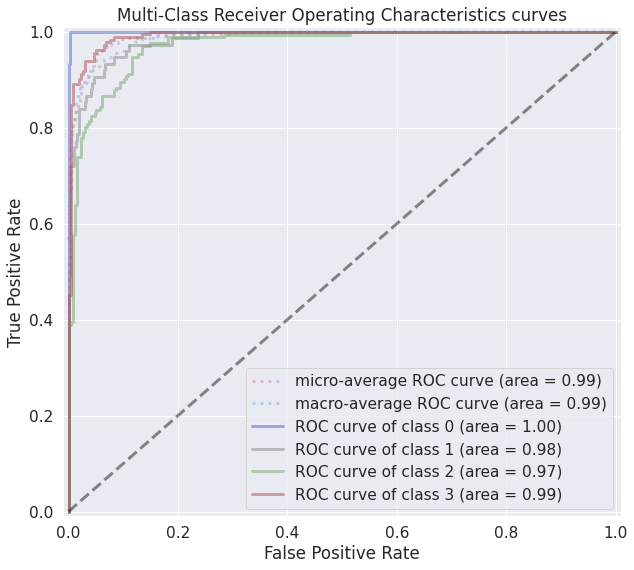
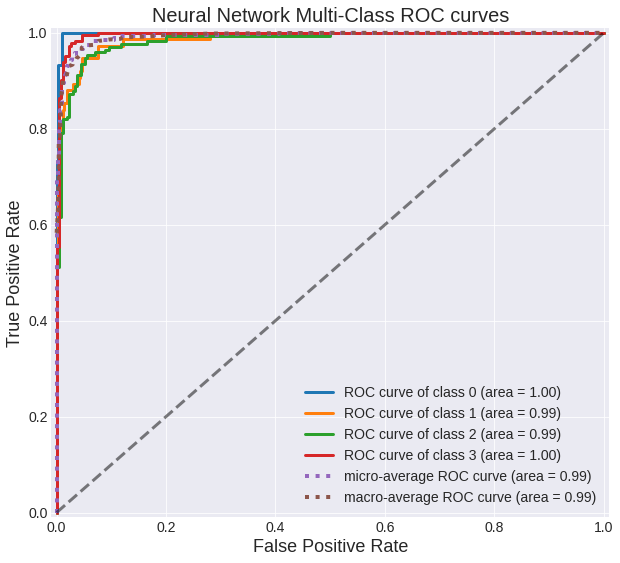
up to uncertainty analysis

diff --git a/templates/chap5.tex b/templates/chap5.tex
@@ -13,7 +13,7 @@
 Supervised learning methods for classification come in a wide variety of shapes and sizes. Rather than settle on one for predicting geothermal gradient, four different methods are applied to the southwestern NM data set. Figure \ref{fig:model_flow} illustrates the high-level modeling flow, where model complexity increases with successive steps. The method descriptions below only briefly delve into important model mechanics and key hyperparameters (i.e., parameters not learned from data) that impact model performance. Other sources can provide a deeper review of machine learning algorithms and their mathematical underpinnings. This investigation should instead be considered an applied case study that uses these algorithms as tools for generating insights on geothermal potential. 
 
 \subsection{Assessing Performance}
-Building an intuition for the differences in predictive ability of different models first requires a clear definition of the scoring metric(s) used to compare those models. The characterization of classifier performance typically begins with a confusion matrix. In its simplest form, the confusion matrix evaluates class predictions as \acrlong{tp} (\acrshort{tp}; predicted 1, actually 1), \acrlong{tn} (\acrshort{tn}; predicted 0, actually 0), \acrlong{fp} (\acrshort{fp}; predicted 1, actually 0), and \acrlong{fn} (\acrshort{fn}; predicted 0, actually 1). For the multi-class problem, the confusion matrix expands to include all correct classification and mis-classification options. Figure \ref{fig:confusion_matrix} illustrates the elements of a 4-class matrix.
+Building an intuition for the differences in predictive ability of different models first requires a clear definition of the scoring metric(s) used to compare those models. The characterization of classifier performance typically begins with a confusion matrix. In its simplest form, the confusion matrix evaluates class predictions as \acrlong{tp} (\acrshort{tp}; predicted 1, actually 1), \acrlong{tn} (\acrshort{tn}; predicted 0, actually 0), \acrlong{fp} (\acrshort{fp}; predicted 1, actually 0), and \acrlong{fn} (\acrshort{fn}; predicted 0, actually 1). For the multi-class problem, the confusion matrix expands to include all correct classification and misclassification options. Figure \ref{fig:confusion_matrix} illustrates the elements of a 4-class matrix.
 
 \begin{figure}[!htp]
 \centering
@@ -152,7 +152,7 @@ One method for selecting the number of features to keep involves an iterative pr
 \caption[Logistic regression confusion matrix]{Confusion matrix for the tuned LR model trained on WDS4.}
 \label{fig:logreg_conf_matrix}
 \end{wrapfigure}
-A final LR model trained on WDS4 was constructed using the tuned C hyperparameter and reduced feature set from RFE. The confusion matrix suggests the model performs well overall (Figure \ref{fig:logreg_conf_matrix}). Correct predictions for all four classes of geothermal gradient (TP) outnumber the mis-classifications for those classes (FP). The model appears to struggle most with differentiating between class 2 and class 3 locations, which separate mid-grade (40-60 $^\circ$C/km) from high-grade gradients (>60 $^\circ$C/km), although there are a large number of mis-classifications (26) of low-grade gradient as high-grade as well.
+A final LR model trained on WDS4 was constructed using the tuned C hyperparameter and reduced feature set from RFE. The confusion matrix suggests shows moderately good model performance (Figure \ref{fig:logreg_conf_matrix}). Correct predictions for all four classes of geothermal gradient (TP) outnumber the misclassifications for those classes (FP). The model appears to struggle most with differentiating between class 2 and class 3 locations, which separate mid-grade (40-60 $^\circ$C/km) from high-grade gradients (>60 $^\circ$C/km), although there are a large number of misclassifications (26) of low-grade gradient as high-grade as well.
 
 Figure \ref{fig:logreg_auc} plots the macro average, micro average, and individual class ROC curves. Class 0 (non-thermal) predictive ability is quite high, pulling the micro-average AUC up to 0.88.  The macro AUC value of 0.85 is more aligned with the performance for other classes, which range from an AUC of 0.79-0.83. The trade-off between Class 2 and Class 3 is apparent in how the curve shapes mirror each other.
 
@@ -160,7 +160,7 @@ Figure \ref{fig:logreg_auc} plots the macro average, micro average, and individu
 \centering
 \includegraphics[width=0.6\textwidth]{templates/images/Figure-LR-AUC.png}
 \singlespacing
-\caption[Logistic regression AUC curves]{ROC AUC curves for the tuned LR model trained on WDS4.}
+\caption[Logistic regression ROC curves]{ROC curves for the tuned LR model trained on WDS4.}
 \label{fig:logreg_auc}
 \end{figure}
 
@@ -283,21 +283,23 @@ Figure \ref{fig:dtree_feat_import} shows the feature importances determined by t
 \end{figure}
 
 \subsubsection{Optimized Model Results}
+
 \begin{figure}[!htp]
 \centering
-\includegraphics[width=0.45\textwidth]{templates/images/Figure-DT-ConfusionMatrix.png}
+\includegraphics[width=0.5\textwidth]{templates/images/Figure-DT-ConfusionMatrix.png}
 \singlespacing
 \caption[Decision tree confusion matrix]{Confusion matrix for tuned DT model trained on WDS4.}
 \label{fig:dtree_conf_matrix}
 \end{figure}
-A final DT model trained on WDS4 was constructed using the tuned parameters and 18-predictor reduced feature set. The confusion matrix (Figure \ref{fig:dtree_conf_matrix}) demonstrates an improvement in model results over the logistic regression method. Low-grade geothermal locations are correctly predicted for almost double the number of sites, and half as many mis-classifications are observed between class 2 (mid-grade) and class 3 (high-grade) geothermal as with the LR model.
+
+A final DT model trained on WDS4 was constructed using the tuned parameters and 18-predictor reduced feature set. The confusion matrix (Figure \ref{fig:dtree_conf_matrix}) demonstrates an improvement in model results over the logistic regression method. Low-grade geothermal locations are correctly predicted for almost double the number of sites, and half as many misclassifications are observed between class 2 (mid-grade) and class 3 (high-grade) geothermal as with the LR model.
 
 Figure \ref{fig:dtree_auc} shows the macro average, micro average, and individual class DT ROC curves. All individual class AUC values exceed 0.90. Class 0 (non-geothermal) continues to demonstrate the highest predictive ability (AUC=0.97), but the performance of class 3 (high-grade) is most responsible for boosting micro-average AUC at higher decision thresholds where the class 0 ROC curve steeply drops in TPR for FPR < 0.1. Class 2 (medium-grade) classification performance lags behind the other classes for the DT classifier.
 
 \begin{figure}[!htp]
 \centering
 \includegraphics[width=0.6\textwidth]{templates/images/Figure-DT_AUC.png}
-\caption[Decision tree AUC curves]{ROC AUC curves for the tuned DT model trained on WDS4.}
+\caption[Decision tree ROC curves]{ROC curves for the tuned DT model trained on WDS4.}
 \label{fig:dtree_auc}
 \end{figure}
 
@@ -439,14 +441,14 @@ Figure \ref{fig:xgb_shap_global} shows the SHAP values calculated from the XGBoo
 \caption[XGBoost confusion matrix]{Confusion matrix for the tuned XGB model trained on WDS4.}
 \label{fig:xgb_conf_matrix}
 \end{wrapfigure}
-A final XGB model parameterized with the tuned values was trained on the sixteen-feature version of WDS4. The resulting confusion matrix (Figure \ref{fig:xgb_conf_matrix}) demonstrates why XGBoost receives best-in-class praise as a predictive method. Test set accuracy for WDS4 exceeds 94\%. The largest number of mis-classifications (12) occur between high-grade (class 3) and medium-grade (class 2) geothermal gradient. And ten additional inaccurate labels involve low-grade (class 1) mistaken as medium-grade or vice-versa. Only two records were off by more than one consecutive class. 
+A final XGB model parameterized with the tuned values was trained on the sixteen-feature version of WDS4. The resulting confusion matrix (Figure \ref{fig:xgb_conf_matrix}) demonstrates why XGBoost receives best-in-class praise as a predictive method. Test set accuracy for WDS4 exceeds 94\%. The largest number of misclassifications (12) occur between high-grade (class 3) and medium-grade (class 2) geothermal gradient. And ten additional inaccurate labels involve low-grade (class 1) mistaken as medium-grade or vice-versa. Only two records were off by more than one consecutive class. 
 
 Figure \ref{fig:xgb_auc} shows the macro average, micro average, and individual class XGB ROC curves. All individual class AUC values are at or above 0.99. This is close to an ideal ROC plot for a classifier.
 
 \begin{figure}[htp]
 \centering
 \includegraphics[width=.5\textwidth]{templates/images/Figure-XGB16-AUC.png}
-\caption[XGBoost AUC curves]{ROC AUC curves for tuned XGB model trained on WDS4.}
+\caption[XGBoost ROC curves]{ROC curves for tuned XGB model trained on WDS4.}
 \label{fig:xgb_auc}
 \end{figure}
 
@@ -460,18 +462,18 @@ Model predictions for the study area are generated by passing the FDS through th
 \end{figure}
 
 \subsection{Neural Networks}
-The concept of \acrlong{ann}s (\acrshort{ann}s or just \acrshort{nn}s) comes from a simplified representation of neuron activity in the brain \citep[p.\ 394]{hastie_elements_2009}. Multiple inputs are fed into a neuron cell from many branches on one end, and given the right combination of those inputs, the cell will fire and propagate a signal to the next connected neuron.
+The original concepts behind \acrlong{ann}s (\acrshort{ann}s or just \acrshort{nn}s) come from simplified models of neuron activity in the brain \citep[p.\ 394]{hastie_elements_2009}. At a high level, multiple inputs are fed into neuron cells from many branches on one end, and given the right combination of those inputs, these cells will fire and propagate a signal to the next group of connected neurons.
 
-In neural networks, cells are represented by logistic units (Figure \ref{fig:nn_schematic}). Each unit acts like a logistic regression operation, where inputs are scaled by weights, and the linear sum of the weighted inputs are passed through an “activation function” to determine if the output is a 0 or a 1. As in logistic regression, the sigmoid function (Equation \ref{eq:sigmoid}) is a common choice, but many other activation functions like the \acrlong{relu} (\acrshort{relu}) are used as well \citep{brownlee_gentle_2019}.
+In neural networks, cells are represented by logistic units (Figure \ref{fig:nn_schematic}). Each unit acts like a logistic regression operation, where inputs are scaled by weights, and the linear sum of the weighted inputs are passed through an “activation function” to determine if the output is a 0 or a 1. As in logistic regression, the sigmoid function (Equation \ref{eq:sigmoid}) commonly appears in network architectures, but many additional activation functions like the \acrlong{relu} (\acrshort{relu}) are frequently used as well \citep{brownlee_gentle_2019}.
 
 \begin{figure}[!htp]
 \centering
 \includegraphics[width=\textwidth]{templates/images/Figure-ANN.png}
-\caption[Neural network schematic]{Schematic of a simplified logistic unit (Left) and a fully-connected artificial neural network (Right) with a single hidden layer made up of logistic units $a_1$ through $a_m$. Bias units (subscript 0) traditionally have a value of 1, but are weighted in linear combinations like other units. Four units in the output layer make this a four-class classifier.}
+\caption[Neural network schematic]{Schematic of a logistic unit (Left) and a fully-connected neural network (Right) with a single hidden layer made up of logistic units $a_1$ through $a_m$. Bias units (subscript 0) traditionally have a value of 1, but are weighted in linear combinations like other units. Four units in the output layer make this a four-class classifier.}
 \label{fig:nn_schematic}
 \end{figure}
 
-Each logistic unit performs the following operation 
+Each logistic unit performs the following operation:
 
 \begin{equation}
 \label{eq:nn_activation}
@@ -510,32 +512,33 @@ As usual, minimizing this loss function is the goal of the NN learning process. 
 \subsubsection{Hyperparameter Tuning}
 \begin{figure}[!htp]
 \centering
-\begin{minipage}{.36\linewidth}
+\begin{minipage}[b][][b]{.35\linewidth}
     \includegraphics[width=\linewidth]{templates/images/Figure-TF_NN_Structure.png}
-    \caption[Neural network structural flow]{Flow chart for the neural network, constructed using TensorFlow \protect\citep{abadi_tensorflow_2016}.}
-    \label{fig:ann_text_structure}
+    \caption[Neural network structural flow]{Structural flow chart for the TensorFlow-based neural network.}
+    \label{fig:nn_text_structure}
 \end{minipage}
 \hfill
-\begin{minipage}{.60\linewidth}
+\begin{minipage}[b][][b]{.61\linewidth}
     \includegraphics[width=\linewidth]{templates/images/Figure-ANN.pdf}
     \caption[Neural network structural schematic]{Schematic diagram of the neural network. Not shown are the dropout operations after each hidden layer.}
-    \label{fig:ann_dot_structure}
+    \label{fig:nn_dot_structure}
 \end{minipage}
 \end{figure}
-This analysis uses a neural network constructed with TensorFlow \citep{abadi_tensorflow_2016}. The network architecture includes hidden layers of the same size as the input layer. This results in a 4-layer structure comprising an input layer of size (1x24), two hidden layers also (1x24), and an output layer of (1x4), assuming all data set features are used (Figures \ref{fig:ann_text_structure}, \ref{fig:ann_dot_structure}). In addition, dropout is included after each of the hidden layers. Dropout helps prevent overfitting by randomly assigning inputs to zero, temporarily severing a defined percentage of node connections during each step of the training process.
+
+This thesis uses a TensorFlow-constructed neural network to test geothermal gradient classification performance for the southwestern NM study area \citep{abadi_tensorflow_2016}. The network design is a 4-layer structure starting with an input layer of size (1x24), followed by two hidden layers sized (1x24), and ending in a four-class output layer (1x4) (Figures \ref{fig:nn_text_structure}, \ref{fig:nn_dot_structure}). Layer sizes assume all 24 features are included in the training. In addition, the network applies dropout after each of the hidden layers. Dropout helps prevent overfitting by randomly assigning inputs to zero, temporarily severing a defined percentage of node connections during each step of the training process.
 
 Since the number of weights being learned scales with the layer count and size of each layer, the choice of network architecture is a tunable parameter. The simplicity of this \acrlong{fcn} (\acrshort{fcn}) design keeps the architecture easily explainable while still enabling the network to learn complex non-linear relationships for geothermal gradient prediction.
 
-Likewise, the choice of activation functions for each layer may also impact the performance of the network. ReLU functions overcome several limitations observed with other activation choices like the sigmoid function, e.g., limited sensitivity and vanishing gradients, making ReLU the current preferred default choice \citep{brownlee_gentle_2019}. Both hidden layers in the network described here apply ReLU activation functions.
+Likewise, the choice of activation functions for each layer may also impact the performance of the network. ReLU functions overcome several limitations seen with more traditional activation choices like the sigmoid function, e.g., limited sensitivity and vanishing gradients, making ReLU the present-day default standard for neural networks \citep{brownlee_gentle_2019}. Both hidden layers in the network described here apply ReLU activation functions.
 
-The Adam optimization method was chosen for training the network due to its computational efficiency and present-day status as the recommended general-purpose optimizer \citep{brownlee_gentle_2017}. A description of Adam is beyond the scope of this thesis, but more information is available in the literature \citep{kingma_adam_2017}.
+The Adam optimization method was chosen for training the network due to its computational efficiency and current status as the recommended general-purpose optimizer \citep{brownlee_gentle_2017}. A description of Adam is beyond the scope of this thesis, but more information is widely available elsewhere \citep[e.g.,\ ][]{kingma_adam_2017}.
 
-The training process updates the network weights using gradients calculated from the training data in each training epoch \citep[p.\ 397]{hastie_elements_2009}. Successive epochs train the NN to match the training data even more, so evaluating loss, AUC, or other metrics on both the training and validation sets is important for tuning the number of epochs to avoid overfitting. Training can also proceed with mini-batches, that is, small subsets of the training set, rather than the whole set at once. This method makes the training results noisier, but generally speeds up learning while adding a regularization effect to changes in the weights \citep{brownlee_how_2019}.  
+The training process updates network weights using gradients calculated from the entire training data in each training epoch \citep[p.\ 397]{hastie_elements_2009}. Successive epochs adjust the NN to match the training data even more, so evaluating loss, AUC, or other metrics on both the training and validation sets is important for identifying the best number of epochs to avoid overfitting. Training can also proceed with mini-batches, that is, small subsets of the training set, rather than the whole set at once. This method makes the training results noisier, but generally speeds up learning while adding a regularization effect to changes in the weights \citep{brownlee_how_2019}.  
 
 Parameter tuning therefore focuses on five hyperparameters:
 \begin{itemize}[itemsep=2pt]
-    \item \textbf{Learning rate}: scales the size of the updates to weights during each step of the training process. The Adam optimizer adjusts this rate during training, so the value here defines an initial learning rate. Initially set to 0.001.
-    \item \textbf{Lambda}: the L2 weight regularization term, i.e., the $\lambda$ in equation \ref{eq:nn_cost_function}. Initially set to $1\times10^{-4}$.
+    \item \textbf{Learning rate}: scales the size of the updates to weights during each step of the training process. The Adam optimizer adjusts this rate during training, so the value here defines a starting learning rate. Initially set to 0.001.
+    \item \textbf{Lambda ($\lambda$)}: the L2 weight regularization term, i.e., the $\lambda$ in equation \ref{eq:nn_cost_function}. Initially set to $1\times10^{-4}$.
     \item \textbf{Batch size}: the number of training samples included in each mini-batch when calculating training gradients for updating the network weights. Initially set to number of samples/10.
     \item \textbf{Dropout rate}: the fraction of network connections zeroed-out during each step of the training process. Initially set to 0.2.
     \item \textbf{Number of epochs}: the number of training repetitions when fitting the model to the data. Initially set to 100.
@@ -544,13 +547,14 @@ Parameter tuning therefore focuses on five hyperparameters:
 \begin{figure}[htp]
 \centering
 \includegraphics[width=\textwidth]{templates/images/Figure-NN_Hyperparameters.png}
-\caption[Neural network hyperparameter tuning]{Neural network hyperparameter tuning results for A. learning rate, B. lambda ($\lambda$), C. batch size, D. drop rate, using WDS4. The orange lines track the AUC after 100 training epochs, averaged over 10-folds of stratified cross-validation for each parameter value. The blue lines show average loss. Red dashed lines indicate values selected for the final model.}
+\caption[Neural network hyperparameter tuning]{NN hyperparameter tuning results for A. learning rate, B. lambda ($\lambda$), C. batch size, D. and drop rate, using WDS4. The orange lines track AUC after 100 training epochs, averaged over 10-folds of stratified cross-validation for each parameter value. The blue lines show average loss after 100 epochs. Red dashed lines mark the selected values for the final model.}
 \label{fig:nn_tuning_plots}
 \end{figure}
 
-The stratified k-fold cross-validation strategy described in Section \ref{ch5:strat_kfold_cv} was used for tuning the neural network hyperparameters. Training continued for 100 epochs, and since TensorFlow tracks metric values for both the training and validation sets at each epoch, the two sets were kept separate during the 10-fold CV process. In the figures and discussion that follow, results are described for WDS4. Full results for all three data sets are provided in Table \ref{tab:nn_tuning}. 
+The stratified k-fold cross-validation strategy described in Section \ref{ch5:strat_kfold_cv} was used for tuning NN hyperparameters. Training continued for 100 epochs, and since TensorFlow models easily track metric values for both the training and validation sets at each epoch, the two sets were kept separate during the 10-fold CV process. In the figures and discussion that follow, results are described for WDS4. Full results for all three data sets are provided in Table \ref{tab:nn_tuning}. 
 
-\begin{wraptable}{R}{0.5\linewidth}
+%\begin{wraptable}{R}{0.50\linewidth}
+\begin{table}[htp]
 \centering
 \begin{tabular}{l|c|c|c|}
 \cline{2-4}
@@ -566,37 +570,60 @@ The stratified k-fold cross-validation strategy described in Section \ref{ch5:st
 \multicolumn{1}{|l|}{AUC$_{test}$}       & 0.863 & 0.992 & 0.992 \\ \hline
 \end{tabular}
 \singlespacing
-\caption[Neural network hyperparameter tuning results]{Neural network hyperparameter tuning results for each data set. Accuracy and AUC metrics are split into train (in-sample) and test (out-of-sample) values.}
+\caption[Neural network hyperparameter tuning results]{NN hyperparameter tuning results for each data set. Accuracy and AUC metrics are split into train (in-sample) and test (out-of-sample) values.}
 \label{tab:nn_tuning}
-\end{wraptable}
+\end{table}
 
-\begin{figure}[!htp]
+\begin{figure}[htp]
 \centering
 \includegraphics[width=\textwidth]{templates/images/Figure-NN-Training-Loss.png}
-\caption[Neural network training loss]{Neural network training results as a function of epoch count for WDS4. Calculated loss (Left) and AUC (Right) for the training (blue) and validation (green) data subsets match and begin to separate near the 100-epoch mark (red arrow). Mini-batch related noise obscures the exact cross-over location.}
+\caption[Neural network training loss]{NN training results as a function of epoch count for WDS4. Calculated loss (Left) and AUC (Right) for the training (blue) and validation (green) subsets converge and start to separate near the 100-epoch mark (red arrow). Mini-batch related noise obscures the exact cross-over location.}
 \label{fig:nn_loss_plot}
 \end{figure}
 
-Tuning was conducted in the order shown in Figure \ref{fig:nn_tuning_plots}. There are distinct maxima for the CV-averaged WDS4 AUC values in each hyperparameter case. The final selected values include: learning rate of 0.01, $\lambda$ value of $2\times10^{-4}$, batch size of 100, and drop rate of 0.1. Minima in the average loss calculation align with these values for all except $\lambda$, the regularization parameter on model weights. This matches the expected behavior described in equation \ref{eq:nn_cost_function}, where $\lambda$ controls the balance between loss and sum of squared weights in the cost function. As Figure \ref{fig:nn_tuning_plots}B shows, the loss term is minimized as $\lambda$ approaches zero.
+Tuning was conducted in the same order as listed in Figure \ref{fig:nn_tuning_plots}. Distinct maxima in CV-averaged AUC are observed for each hyperparameter. The selected values for the final WDS4 model include: learning rate of 0.01, $\lambda$ value of $2\times10^{-4}$, batch size of 100, and drop rate of 0.1. Minima in the average loss curves align with the selected hyperparameter values for all except $\lambda$, the regularization parameter on model weights. This matches the expected behavior described in Equation \ref{eq:nn_cost_function}, where $\lambda$ controls the balance between loss and sum of squared weights in the cost function. As Figure \ref{fig:nn_tuning_plots}B shows, the loss term decreases as $\lambda$ approaches zero.
 
-Figure \ref{fig:nn_loss_plot} illustrates the WDS4 training progress as a time series of loss and AUC. The variance in both plots reflects the noise introduced by mini-batch training, but convergence takes place quickly. Increasing deviation of the validation loss and, to a lesser extent, AUC values at greater epoch counts indicates the model is overfitting the training data. The cross-over of the training and validation lines, which corresponds with the tuned number of epochs for the final model, occurs somewhere close to 100 epochs for WDS4.
+Figure \ref{fig:nn_loss_plot} illustrates the WDS4 training progress as a time series of loss and AUC. The variance in both plots reflects noise introduced by mini-batch training, but convergence takes place quickly. The growing separation between the training and validation loss at greater epoch counts indicates the model is overfitting the training data. The cross-over of the training and validation lines, which corresponds with the tuned value for the epoch hyperparameter, occurs somewhere close to 100 epochs for WDS4.
 
 \subsubsection{Optimized Model Results}
 
-The NN model was re-trained for each of the three data sets using the hyperparameter values listed in Table \ref{tab:nn_tuning}. Data sparsity is particularly problematic for the WDS model; even after careful tuning, the out-of-sample accuracy does not exceed 75\%, and test set AUC is $\approx 86\%$. Data augmentation in WDS4 and WDS8 has a strong pay-off in the results. Models trained on both data sets exhibit $\approx95\%$ accuracy and AUC values $>99\%$ (Table \ref{tab:nn_tuning}).
+The NN model was re-trained for each of the three data sets using the hyperparameter values listed in Table \ref{tab:nn_tuning}. Data sparsity is problematic for the WDS model; even after careful tuning, the out-of-sample accuracy doesn't exceed 75\%, and test set AUC is just $\approx 86\%$. Data augmentation in WDS4 and WDS8 proves quite beneficial by comparison. Models trained on both expanded data sets exhibit $\approx95\%$ accuracy and AUC values $>99\%$ (Table \ref{tab:nn_tuning}).
+ 
+%\begin{wrapfigure}{R}{0.50\linewidth}
+\begin{figure}[htp]
+\centering
+\includegraphics[width=.5\textwidth]{templates/images/Figure-NN-ConfusionMatrix_WDS4.png}
+\singlespacing
+\caption[Neural network confusion matrix]{Confusion matrix for the tuned NN model trained on WDS4.}
+\label{fig:nn_confusion_matrix}
+%\end{wrapfigure}
+\end{figure}
 
-Figure XX shows the confusion matrix for WDS4.
+Figure \ref{fig:nn_confusion_matrix} depicts the confusion matrix constructed from WDS4 model results. Similar to XGB model performance, nearly all of the noted misclassifications are off by only a single class assignment, the largest (19 total) being between medium-grade (class 2) and high-grade (class 3) geothermal gradient. Overall, these are very strong results for a predictive classifier.
+
+Figure \ref{fig:nn_auc} shows the macro average, micro average, and individual class NN ROC curves. All individual class AUC values are at or above 0.99, as was the case for the XGB model. This is close to an ideal ROC plot for a classifier.
+
+\begin{figure}[htp]
+\centering
+\includegraphics[width=0.7\textwidth]{templates/images/Figure-NN-AUC.png}
+\caption[Neural network ROC curves]{ROC curves for tuned NN model trained on WDS4.}
+\label{fig:nn_auc}
+\end{figure}
 
 \begin{figure}[!htp]
 \centering
-\includegraphics[width=.6\textwidth]{templates/images/Figure-NN-ConfusionMatrix.png}
-\caption[Neural network confusion matrix]{}
-\label{fig:nn_confusion_matrix}
+\includegraphics[width=\textwidth]{templates/images/Figure-NN-FinalMap_Joint.png}
+\caption[Neural network final map]{Left: Map predictions of geothermal gradient from the tuned NN model trained on WDS4. Right: geothermal gradient data layer from southwestern NM PFA study \protect\citep{bielicki_hydrogeolgic_2015}.}
+\label{fig:nn_final_map}
 \end{figure}
 
- 
+The FDS was passed through the NN model to generate predictions for the southwestern NM study area as shown in Figure \ref{fig:nn_final_map}. Class 3 high-grade geothermal gradient regions to the southeast in the \citet{bielicki_hydrogeolgic_2015} PFA layer are well-captured by the NN model. The class 3 swath though the center of the AOI describes a broader, more continuous region of geothermal potential than suggested by the PFA map. Additional high-gradient patches unique to the NN map appear along the study area edges – in the southwest corner, eastern AOI extension, and to the northeast paralleling the Rio Grande river. The low-gradient zone to the north matches between the two maps, but most other class 0 areas in the \citeauthor{bielicki_hydrogeolgic_2015} map are not observed in the NN map. Interestingly, there appears to be greater overall similarity between the NN map in Figure \ref{fig:nn_final_map} and the XGB map in Figure \ref{fig:xgb_final_map} than with the PFA map.
 
 \subsection{Uncertainty Analysis}
+
+The results obtained from the four supervised machine learning methods discussed so far all match the well data sets with at least an accuracy of 70\%, and in some cases in excess of 95\%. From a statistical perspective, each model accomplishes the task of learning from existing data reasonably well. And they all use those learnings to predict geothermal gradient classifications across the entire AOI. But presenting these results to an explorationist will invariably elicit two important questions: 1) Which of these maps is right? and 2) How can I integrate all four to better understand the region? 
+
+George Box's famous statement, “Essentially, all models are wrong, but some are useful” \citep{box_empirical_1987} effectively answers the first question. But knowing that none of the predicted maps is individually correct only strengthens the case for answering the second question. Reframing that query slightly, the following analysis serves to define: how wrong can the model results be? And also, where are predictions most or least certain for individual models and across all models?
 
 \subsubsection{Bootstrap Estimation}
 
